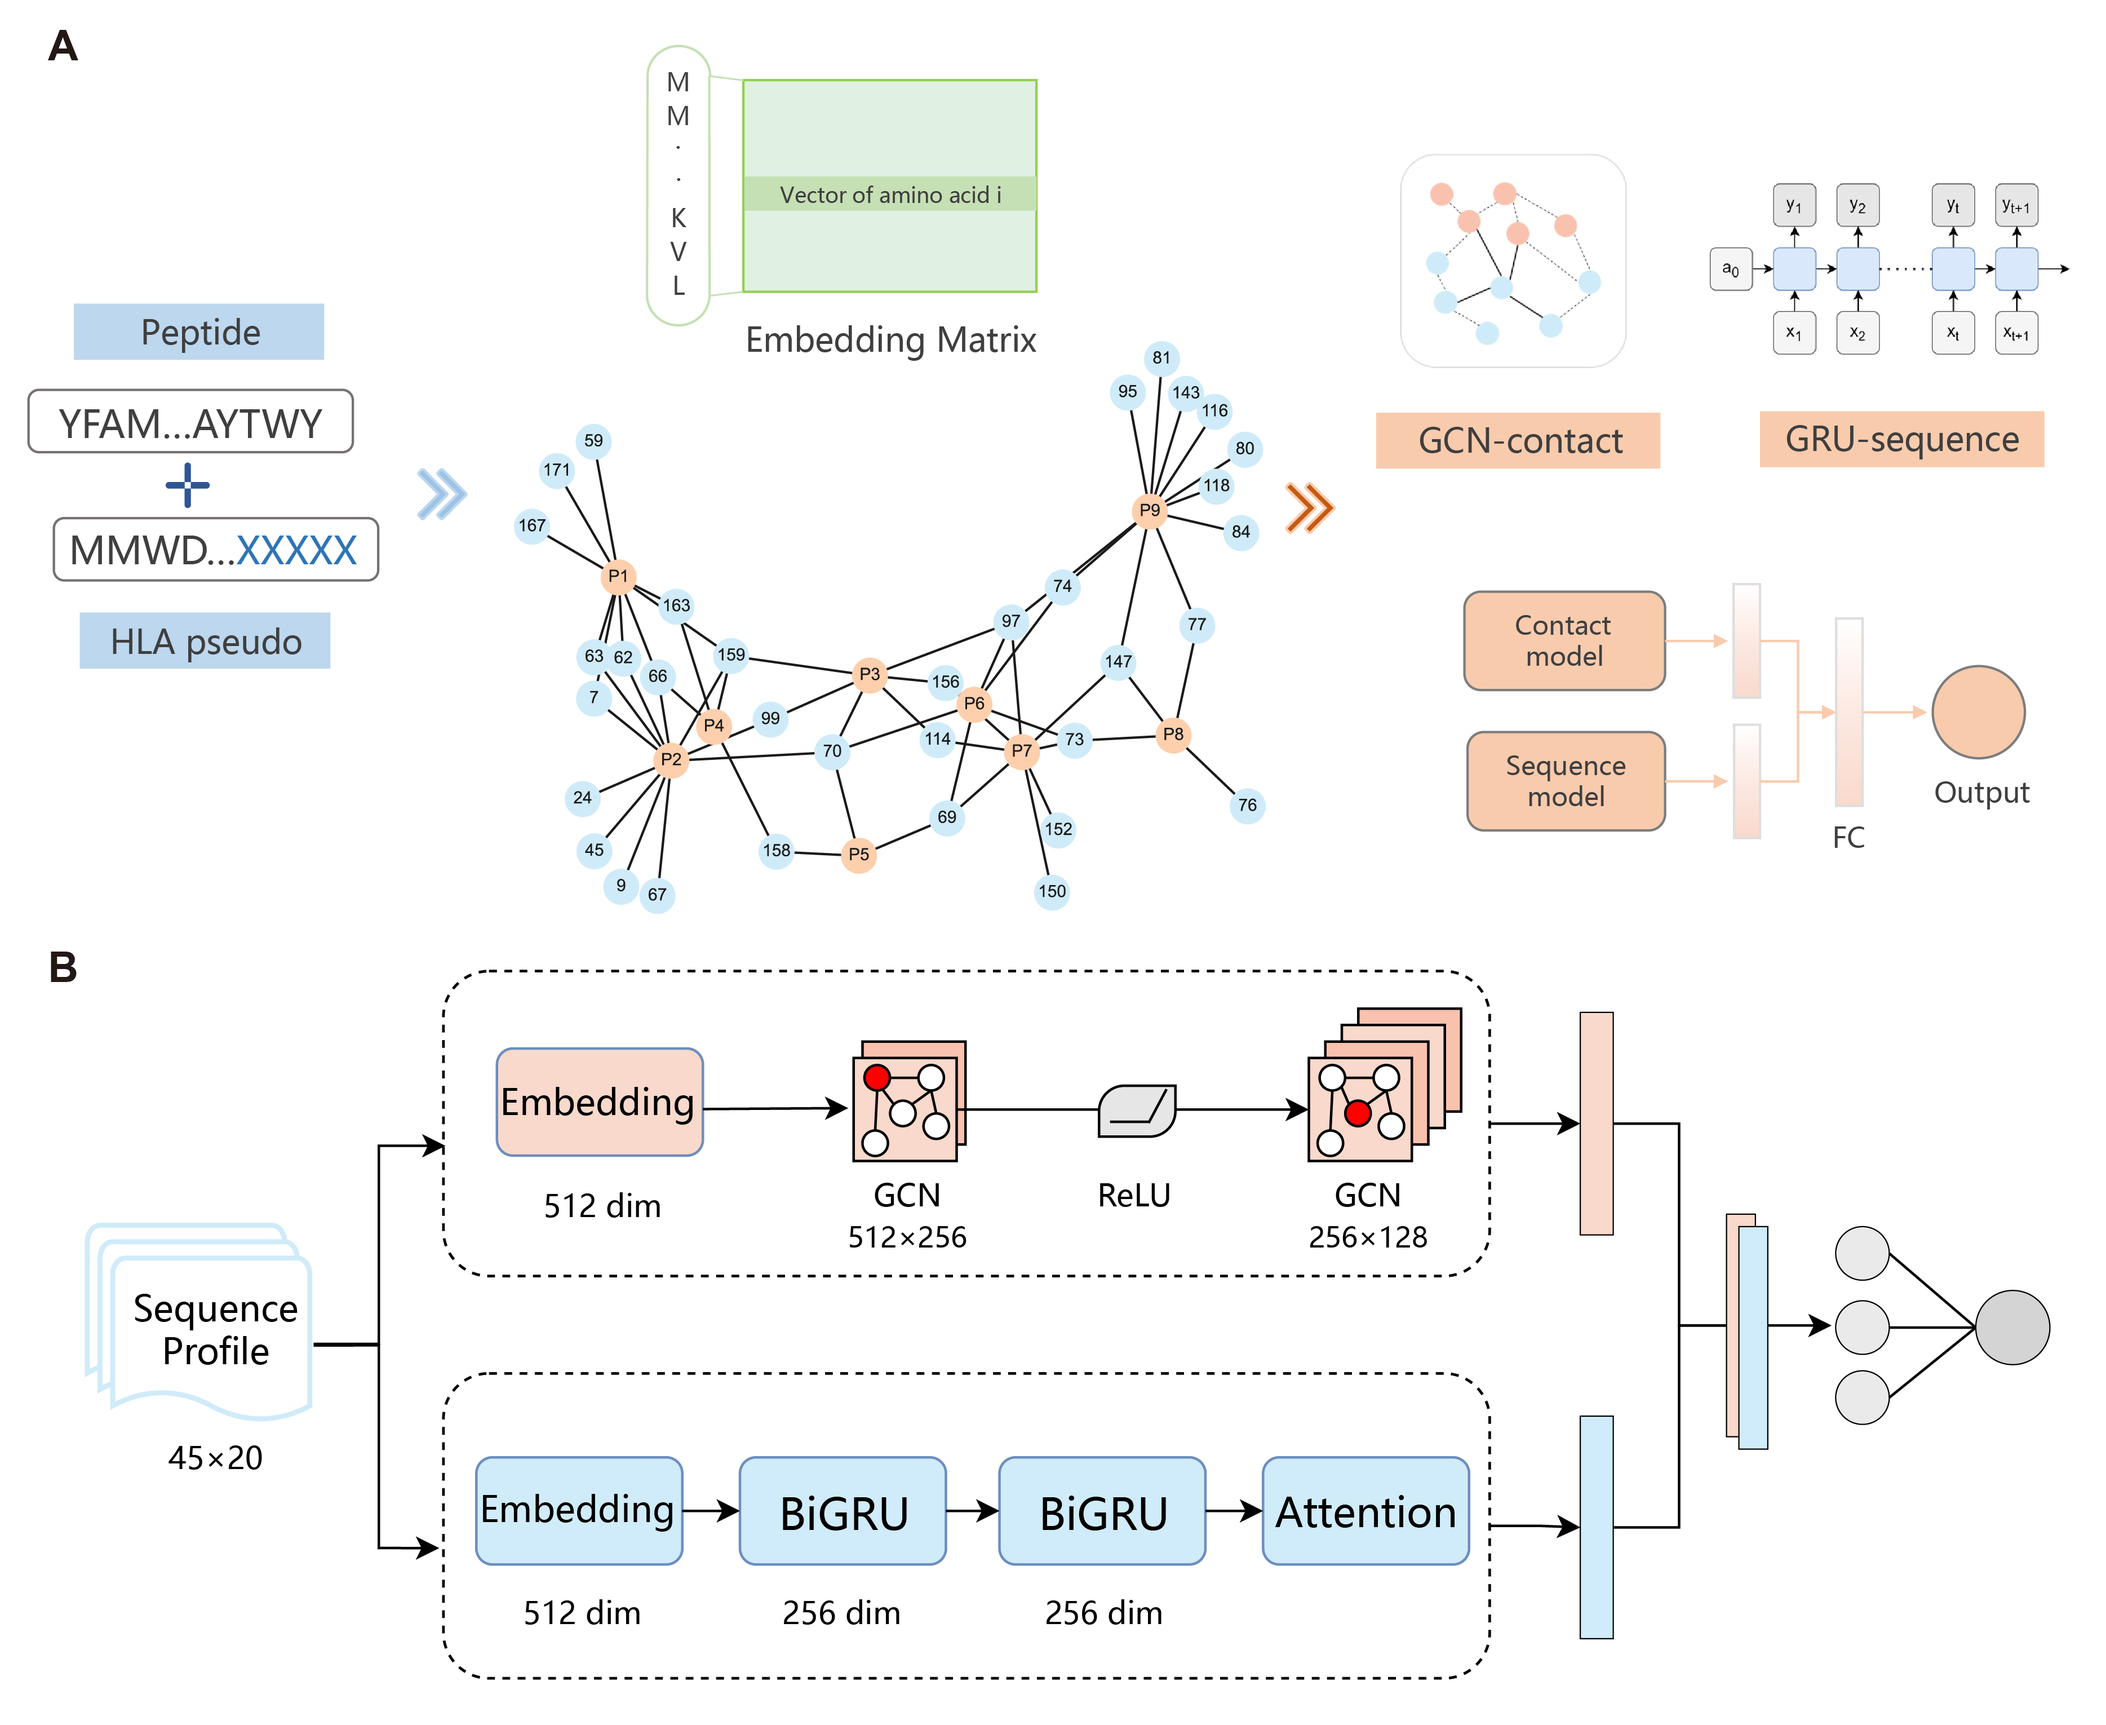
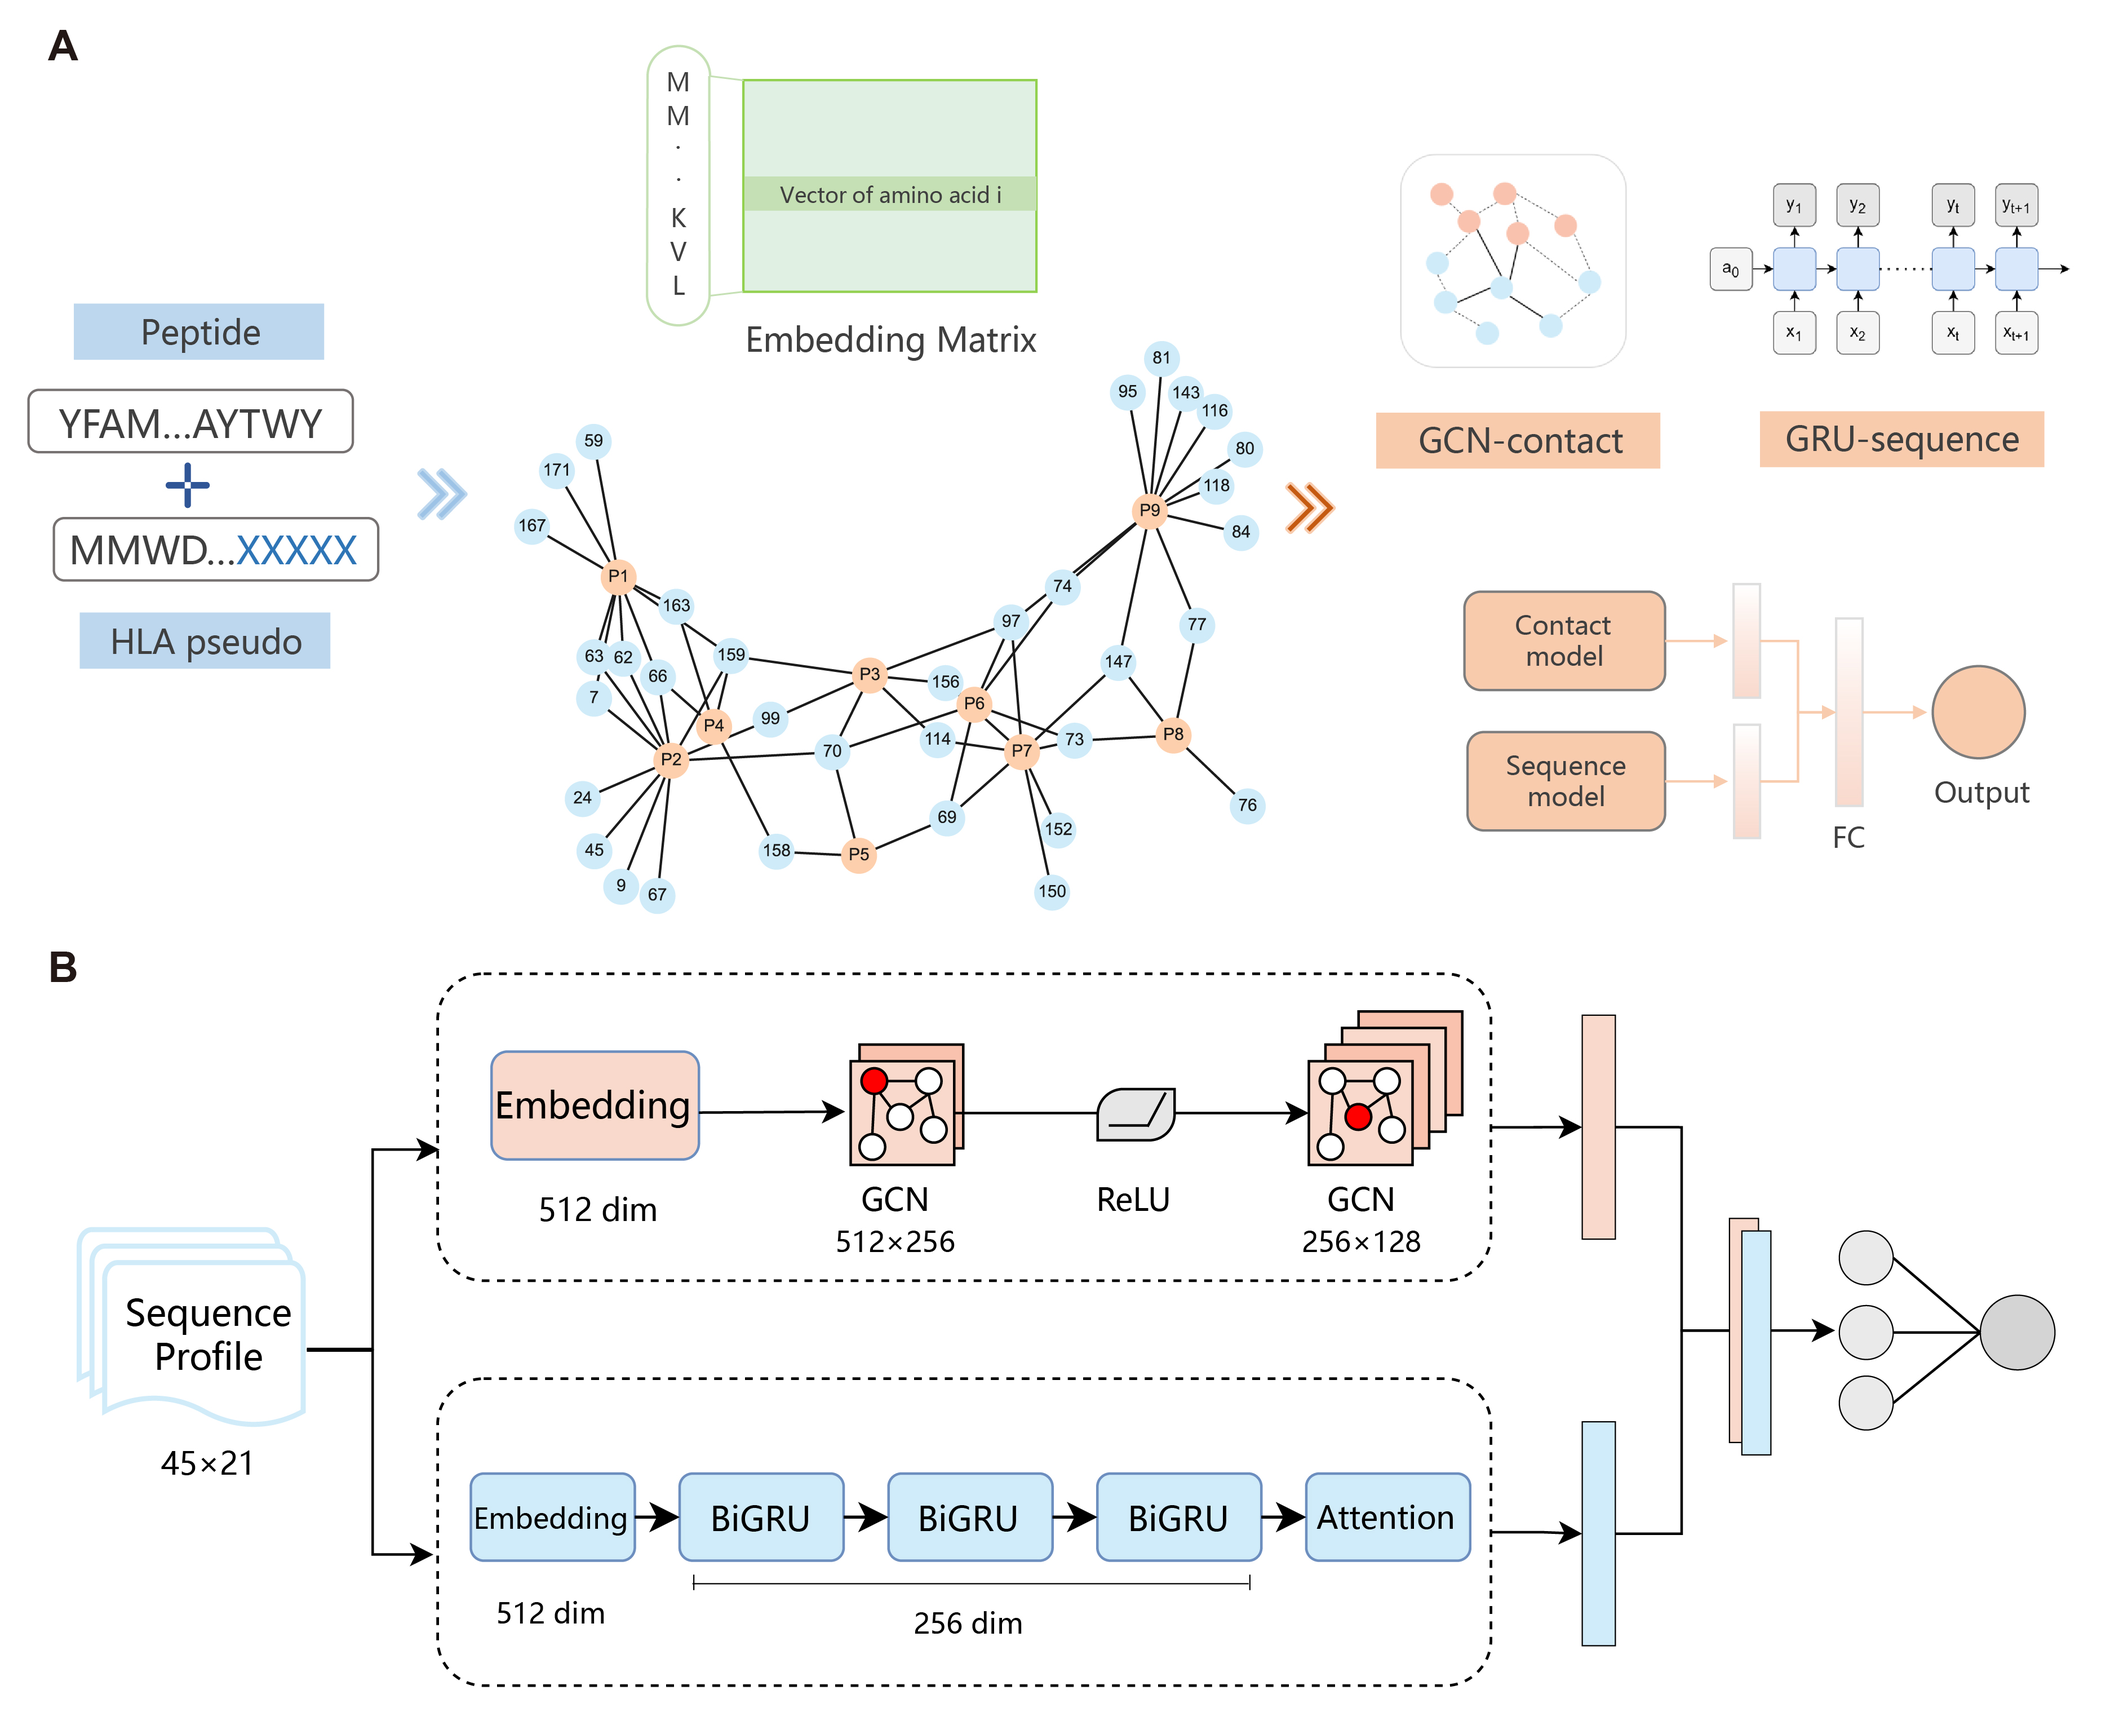
update Fig1

diff --git a/README.md b/README.md
@@ -1,6 +1,6 @@
 # MultiMHC
 
-MultiMHC is a dual-pathway deep learning framework for peptide–major histocompatibility complex (pMHC) binding prediction that integrates complementary sequential and structural representations.
+MultiMHC is a dual-pathway deep learning framework for peptide–major histocompatibility complex (pMHC) binding prediction that integrates complementary sequential context and contact-topology representations.
 
 ![MultiMHC architecture](Fig1.jpg)
 
